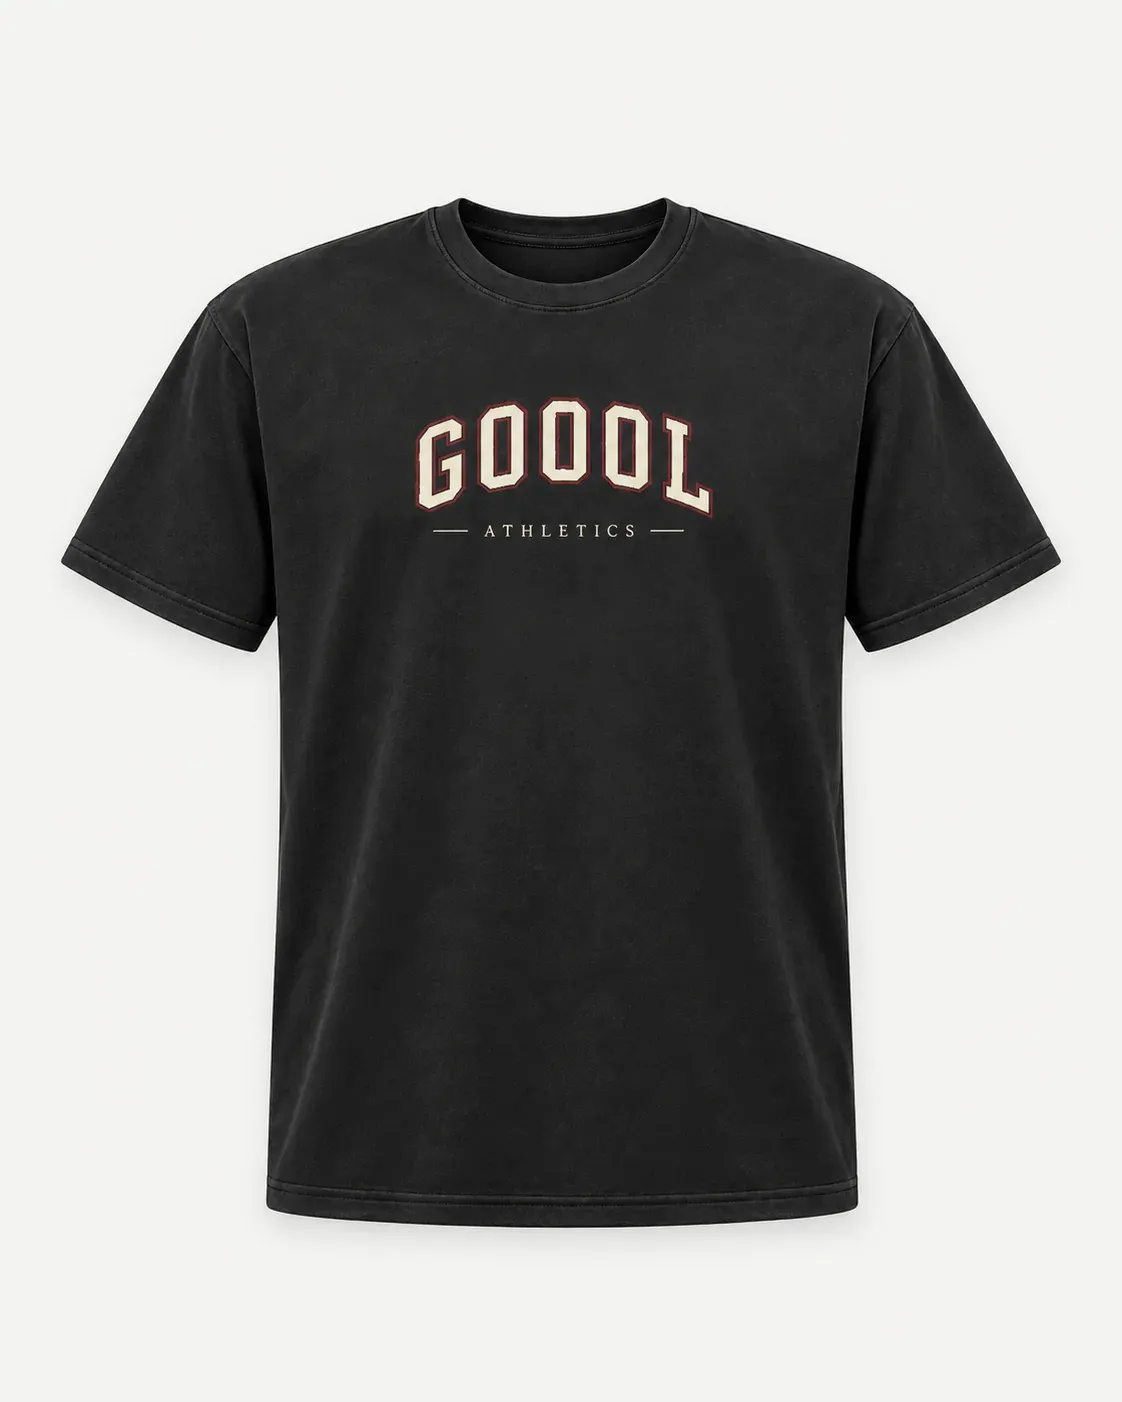
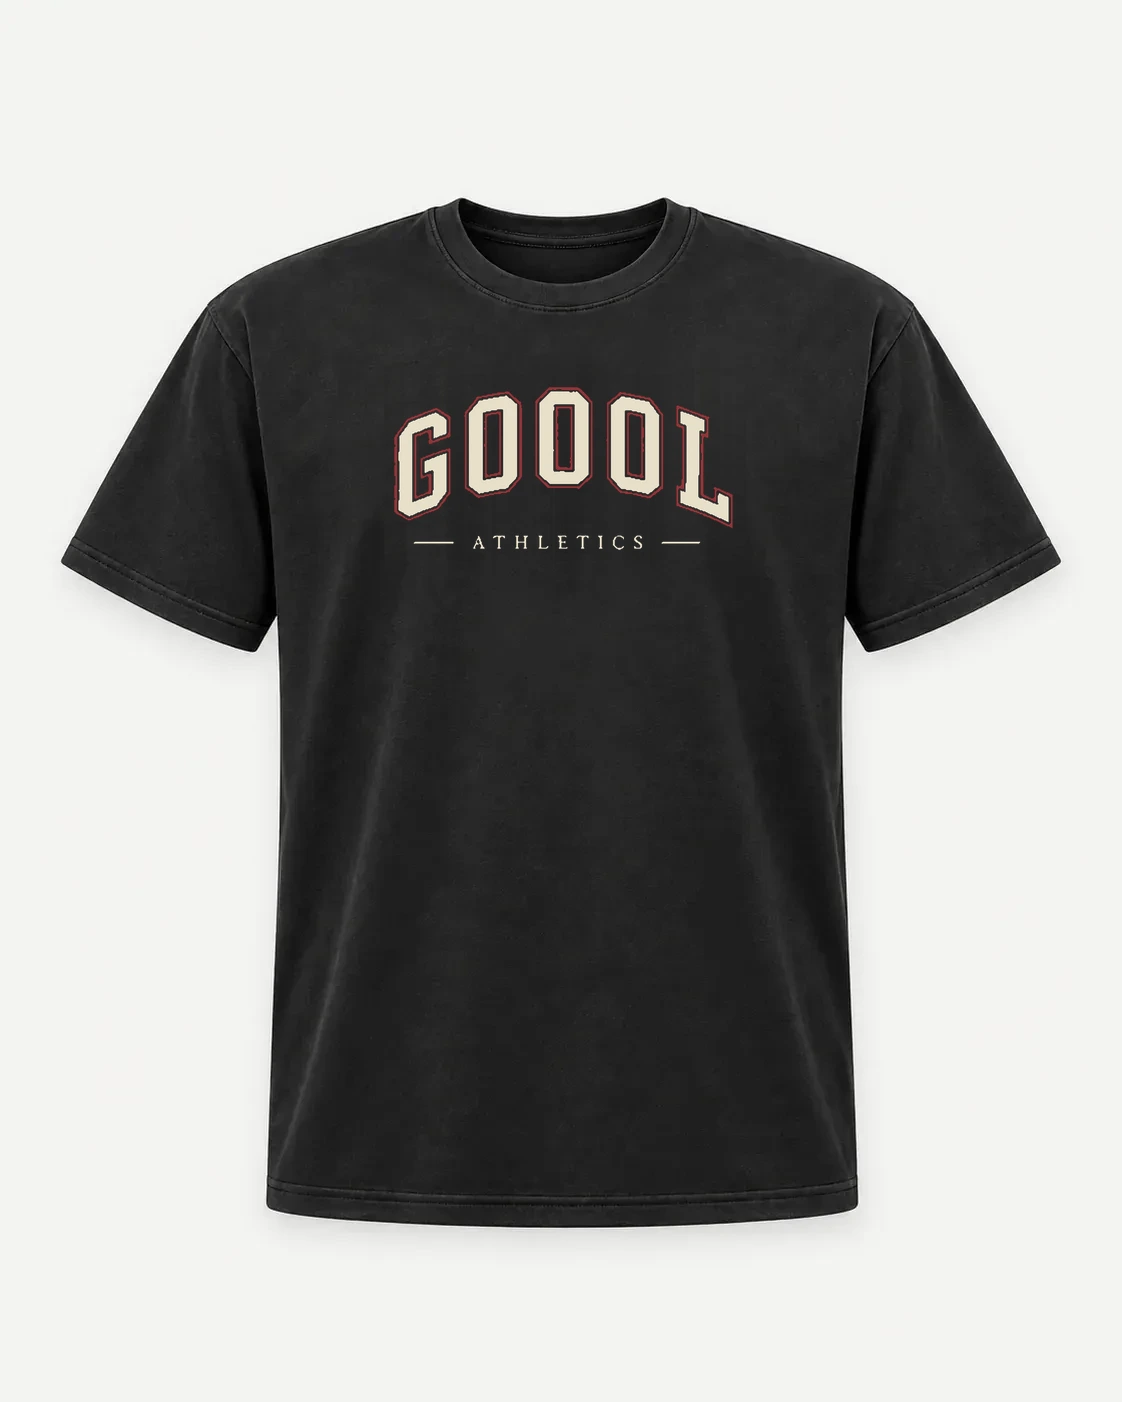
Scale Varsity Tee front print to 12.5in (was 11in)
Owner reviewed an 11/12.5/14in comparison composited on the live product
photo; 14in crowds the sleeve seams (the print box's own physical edge),
12.5in was the pick - clearly larger, still sits inside the chest with
real margin.

- Rebuild both colorways in Apliiq (no in-place resize exists there):
  Washed Black 6114178, Washed Navy 6114196, both 12.5x6in GA-02-F,
  front-only, centered in Back Box 1 with a symmetric 0.75in margin.
  SKUs read from Apliiq, not constructed.
- fulfillment.ts: repoint both colorways at the new designs.
- Rebuild both front site photos at the new scale (same clean-and-
  composite pipeline as the casual tee), same chest anchor point.
- Void the two 11in designs being replaced (6113914, 6113912) in Apliiq -
  renamed via /product/{id}, verified through each design's own history
  log. No delete path exists there.

Sales stay closed (availableForSale unchanged).

Changed region(s): [[0.3431, 0.276, 0.6551, 0.3987]]

diff --git a/src/lib/fulfillment.ts b/src/lib/fulfillment.ts
@@ -133,30 +133,32 @@ const MAPPING: Record<string, Record<string, ApliiqVariant>> = {
     },
   },
   // GOOOL Athletics Varsity Tee (Bella+Canvas 4810GD, Washed Black)
-  // Front print only (11in, GA-02-F) - the back mark (GA-02-B) was dropped
+  // Front print only (12.5in, GA-02-F) - the back mark (GA-02-B) was dropped
   // 2026-09-21 because it could not be placed to match the site's concept
-  // art within Back Box 1 (see products.ts). Washed Black rebuilt at
-  // 6113914 (was 6112032, front+back - now VOID in Apliiq); Washed Navy is
-  // a genuinely new colorway at 6113912.
+  // art within Back Box 1 (see products.ts). Scaled from 11in to 12.5in
+  // 2026-09-21 (owner decision) - 14in was tested and rejected, it crowds
+  // the sleeve seams; 12.5in leaves real margin on both sides. Both
+  // colorways rebuilt again at 6114178 / 6114196 (were 6113914 / 6113912,
+  // 11in - now VOID in Apliiq, no in-place resize exists there).
   "80000000-0000-4000-8000-000000000002": {
     "Washed Black": {
-      apliiqProductId: 6113914,
+      apliiqProductId: 6114178,
       skus: {
-        S: "APQ-6113914S6A1",
-        M: "APQ-6113914S7A1",
-        L: "APQ-6113914S8A1",
-        XL: "APQ-6113914S1A1",
-        XXL: "APQ-6113914S2A1",
+        S: "APQ-6114178S6A1",
+        M: "APQ-6114178S7A1",
+        L: "APQ-6114178S8A1",
+        XL: "APQ-6114178S1A1",
+        XXL: "APQ-6114178S2A1",
       },
     },
     "Washed Navy": {
-      apliiqProductId: 6113912,
+      apliiqProductId: 6114196,
       skus: {
-        S: "APQ-6113912S6A1",
-        M: "APQ-6113912S7A1",
-        L: "APQ-6113912S8A1",
-        XL: "APQ-6113912S1A1",
-        XXL: "APQ-6113912S2A1",
+        S: "APQ-6114196S6A1",
+        M: "APQ-6114196S7A1",
+        L: "APQ-6114196S8A1",
+        XL: "APQ-6114196S1A1",
+        XXL: "APQ-6114196S2A1",
       },
     },
   },

diff --git a/src/lib/products.ts b/src/lib/products.ts
@@ -2039,12 +2039,14 @@ export const products: Product[] = [
         caption: "Concept render. Not a photograph of a manufactured sample.",
       },
     ],
-    // Colorways mirror the saved Apliiq designs (Washed Black 6113914, Washed
-    // Navy 6113912) - front print only, 11in GA-02-F. The back mark (GA-02-B)
-    // was dropped 2026-09-21: on this blank, Back Box 1 starts too low to
-    // reach the site's concept placement, so the owner chose to cut the back
-    // print rather than ship a mismatched garment. 6112032 (front+back,
-    // Washed Black) is superseded and marked VOID in Apliiq.
+    // Colorways mirror the saved Apliiq designs (Washed Black 6114178, Washed
+    // Navy 6114196) - front print only, 12.5in GA-02-F (scaled up from 11in
+    // 2026-09-21; 14in was tested and rejected for crowding the sleeve
+    // seams). The back mark (GA-02-B) was dropped 2026-09-21: on this blank,
+    // Back Box 1 starts too low to reach the site's concept placement, so
+    // the owner chose to cut the back print rather than ship a mismatched
+    // garment. 6112032 (front+back) and 6113914/6113912 (front-only, 11in)
+    // are superseded and marked VOID in Apliiq.
     colorVariants: [
       {
         name: "Washed Black",
